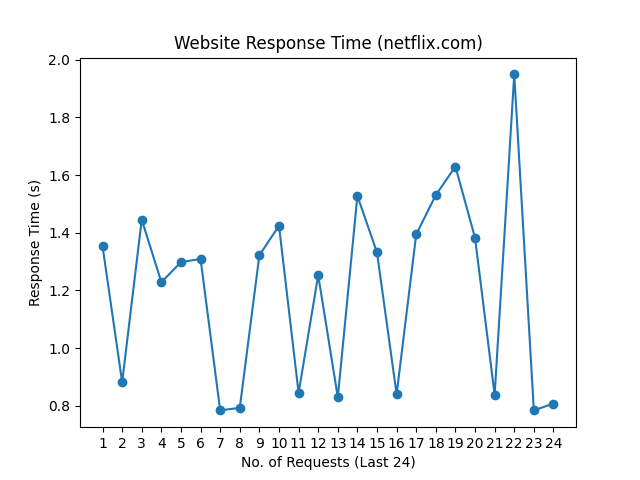
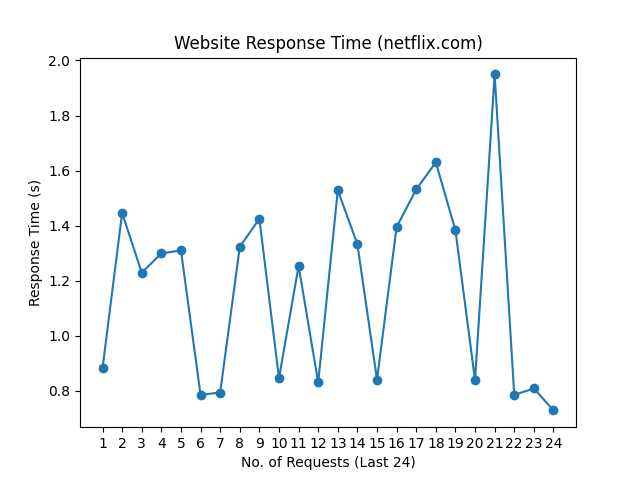
update README.md, history and graph

diff --git a/README.md b/README.md
@@ -1,10 +1,10 @@
 # Web Monitoring
 
-Last Checked: 31/12/2024 08:20
+Last Checked: 01/01/2025 08:22
 
 | Website | Response Time (s) | Status | Avg Uptime (%) |
 |---------|-------------------|--------|----------------|
 | www.thiswebsiteisdown.net | 0 <br> <img src="graph/thiswebsiteisdown.net.png" alt="Graph" width="200" height="200">  | ❌ Down | 0.00 |
-| www.netflix.com | 0.807959 <br> <img src="graph/netflix.com.png" alt="Graph" width="200" height="200">  | ✅ Up | 99.80 |
-| www.google.com | 0.099045 <br> <img src="graph/google.com.png" alt="Graph" width="200" height="200">  | ✅ Up | 100.00 |
-| www.facebook.com | 0.430838 <br> <img src="graph/facebook.com.png" alt="Graph" width="200" height="200">  | ✅ Up | 100.00 |
+| www.netflix.com | 0.727967 <br> <img src="graph/netflix.com.png" alt="Graph" width="200" height="200">  | ✅ Up | 99.81 |
+| www.google.com | 0.063646 <br> <img src="graph/google.com.png" alt="Graph" width="200" height="200">  | ✅ Up | 100.00 |
+| www.facebook.com | 0.433094 <br> <img src="graph/facebook.com.png" alt="Graph" width="200" height="200">  | ✅ Up | 100.00 |
